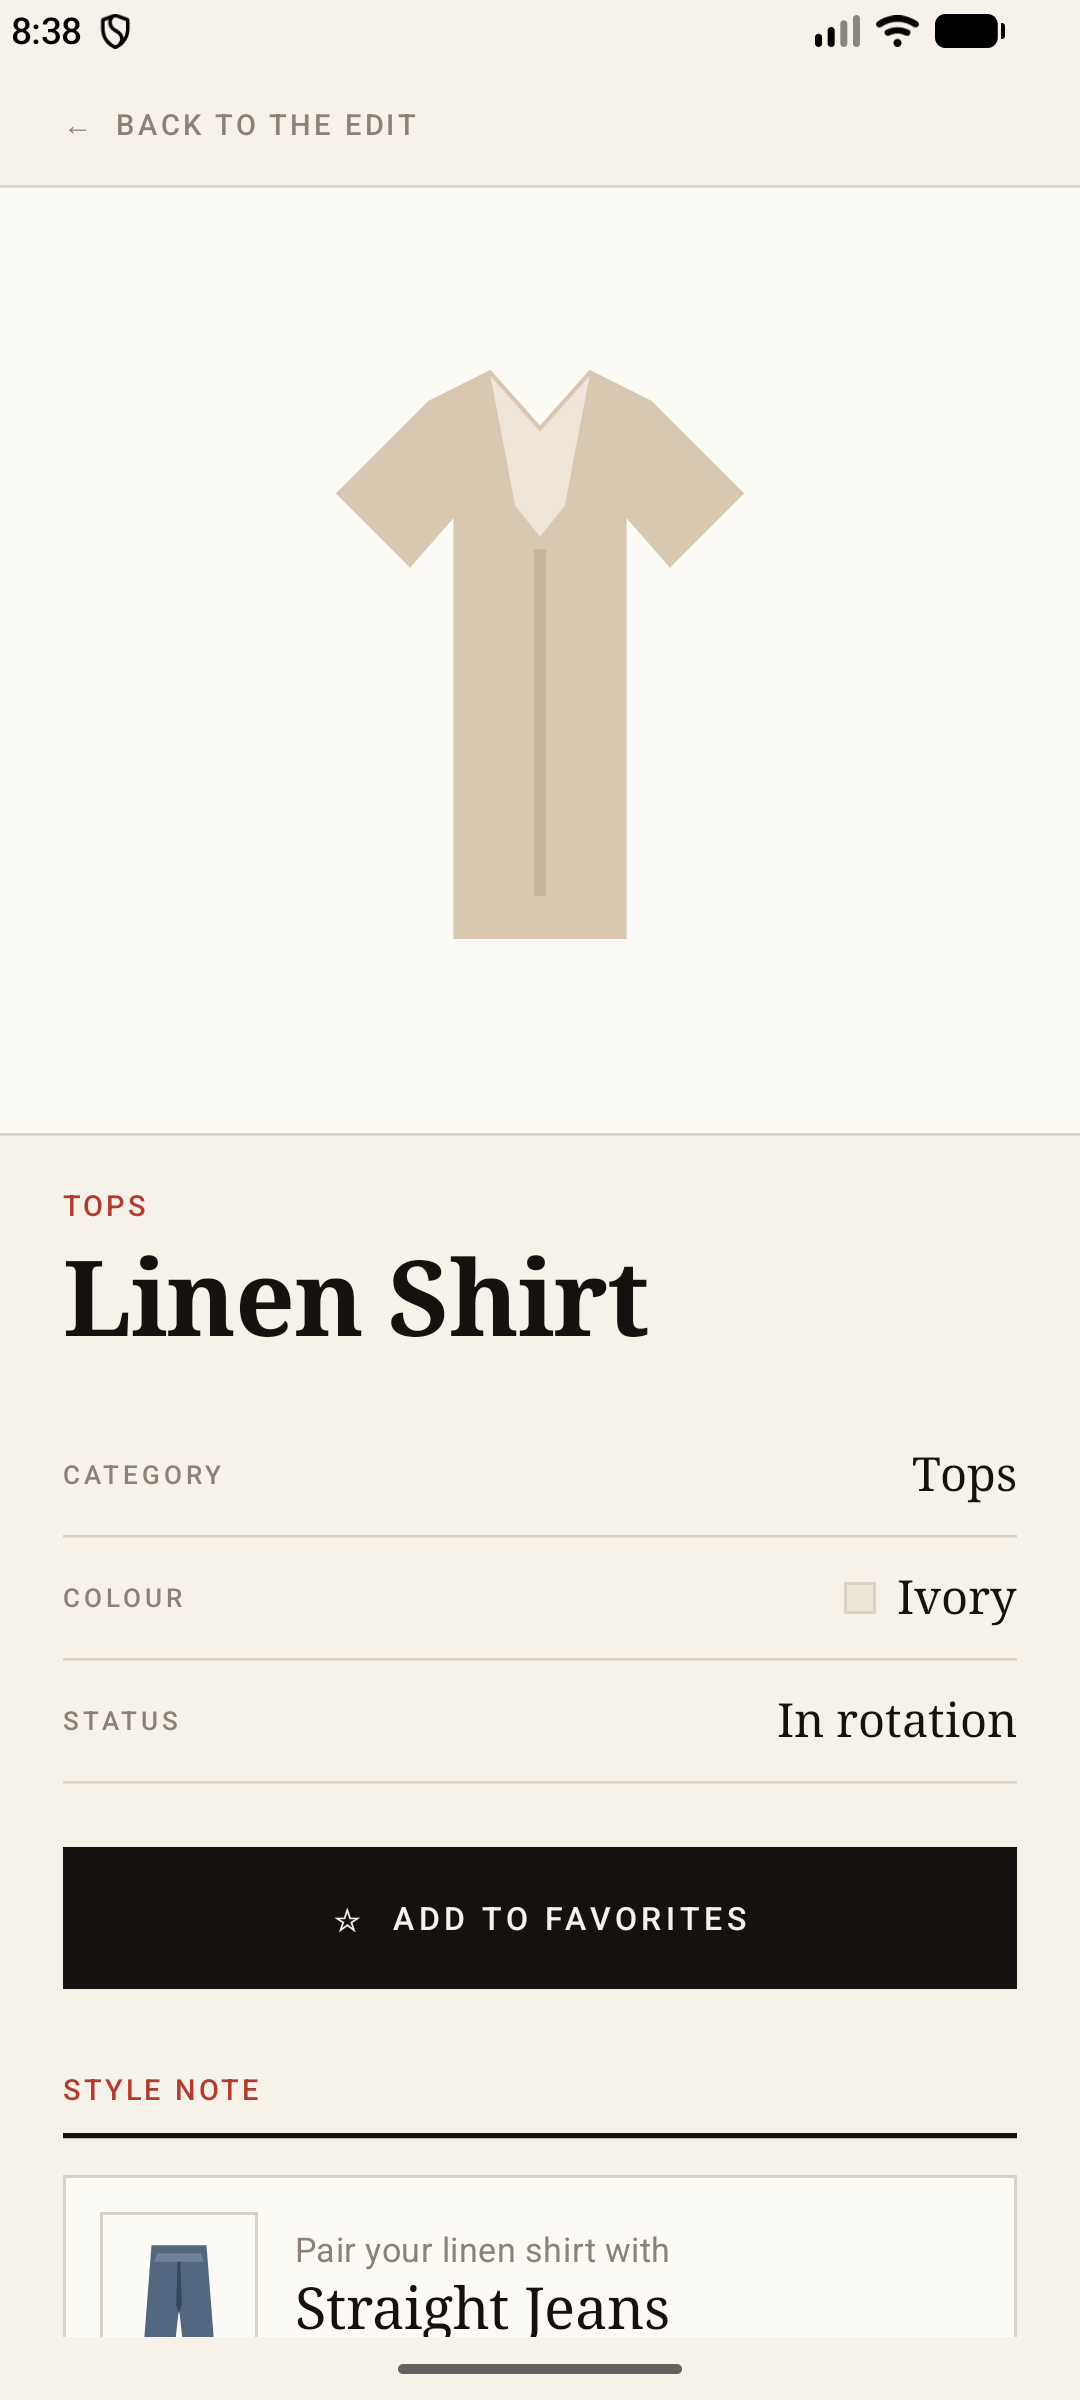
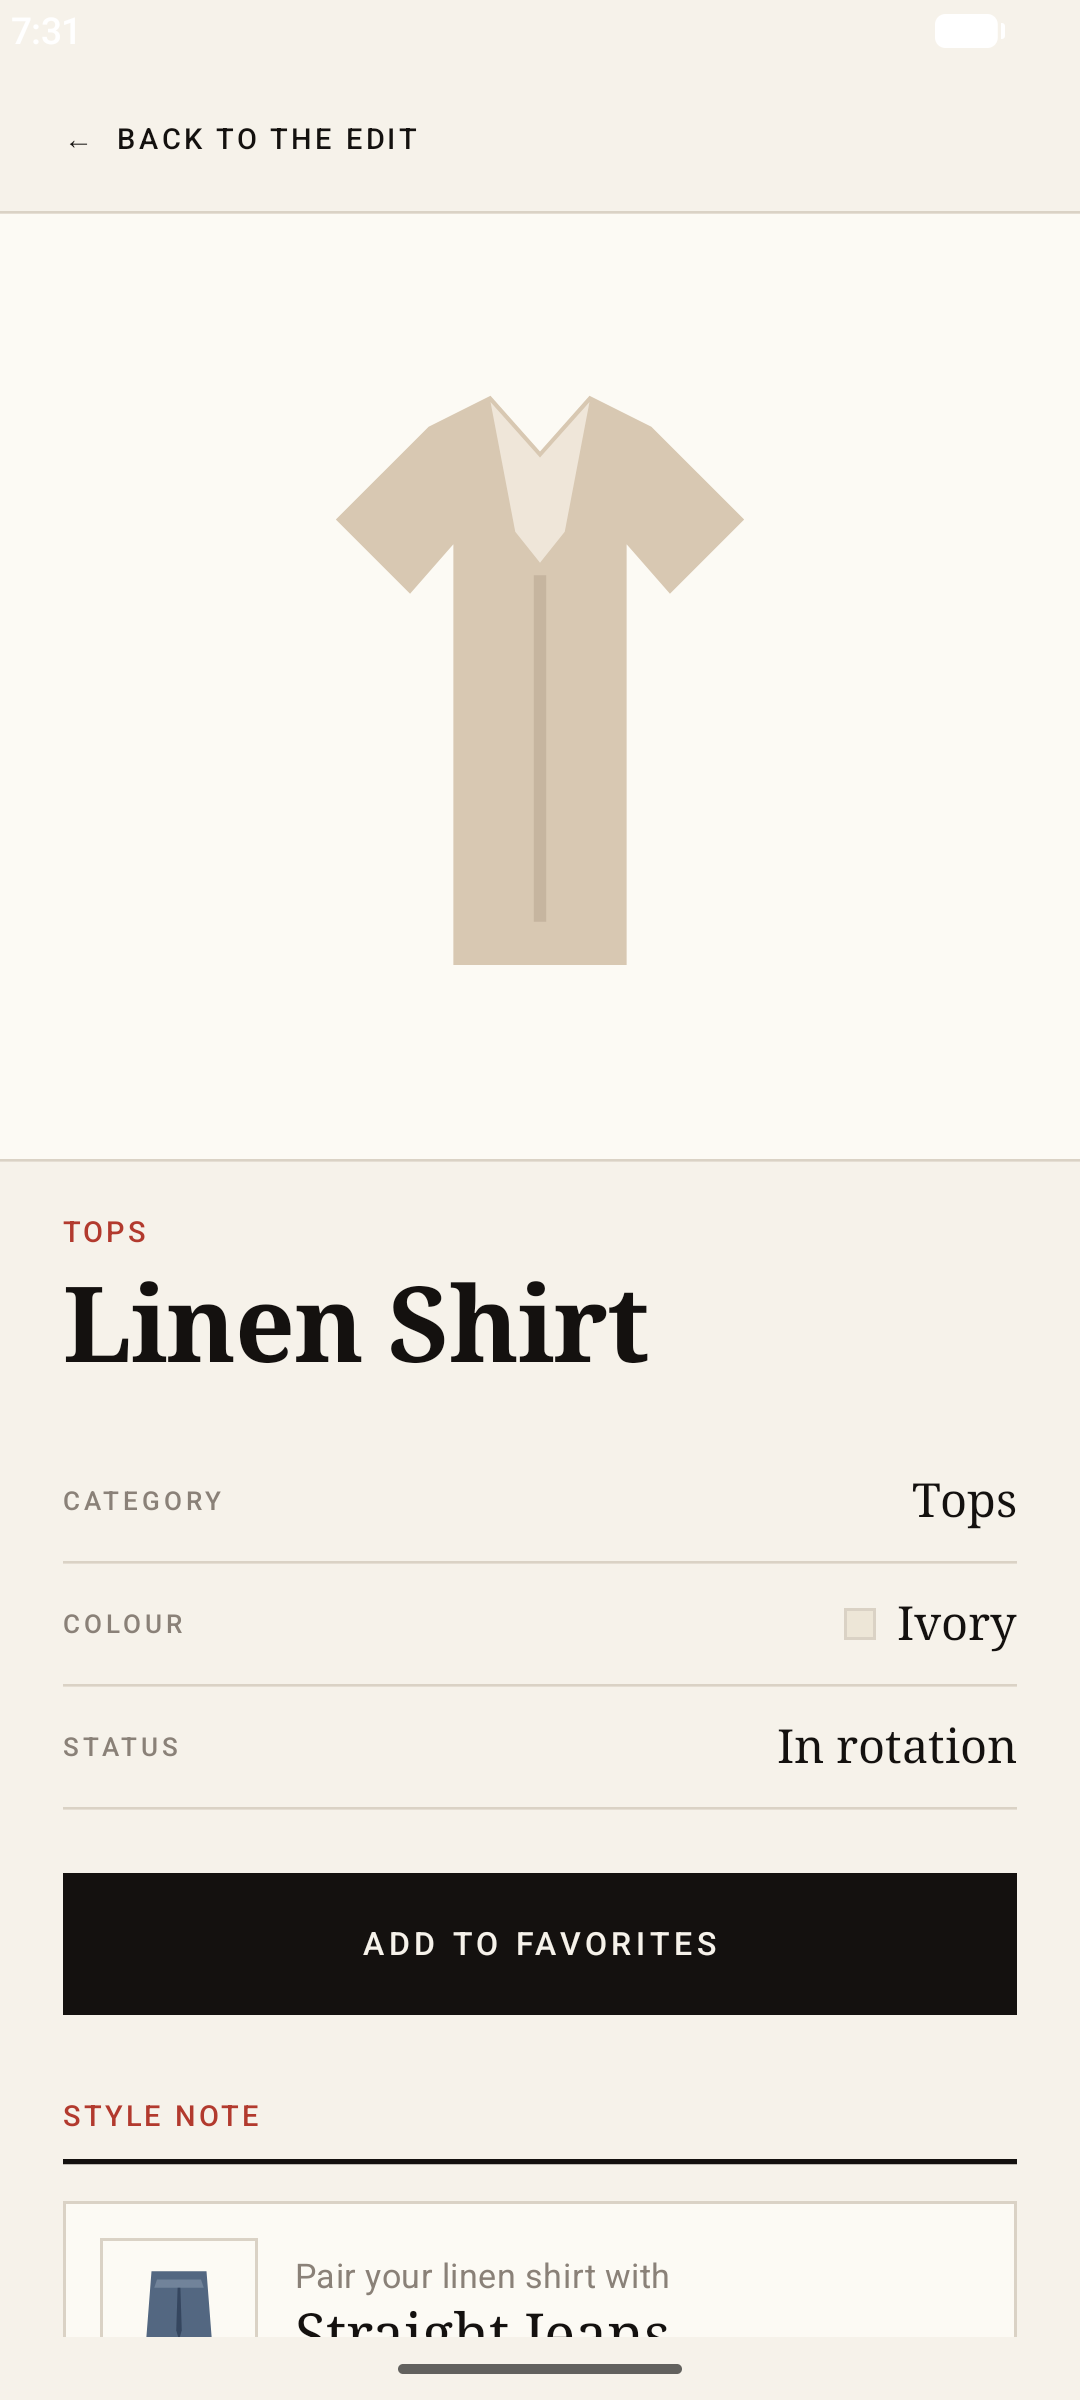
:hammer: some UI changes

diff --git a/README.md b/README.md
@@ -17,6 +17,7 @@ This is the HW2 (Task 2) foundation that will later grow into the StyleBook midt
 - **Wardrobe screen** — an editorial masthead header plus a `LazyColumn` list of clothing pieces, each showing a number, illustration, name, category, color swatch, and a favorite star.
 - **Item details screen** — a large illustration, a spec sheet (category / colour / status), a favorite toggle, and a **Style Note** card that suggests an outfit pairing from another piece in the wardrobe.
 - **Add Piece screen** — a form (`TextField`s, category chips, `Button`) with required-field validation and success/error feedback. New pieces appear in the wardrobe immediately.
+- **Search & filter** — a search `OutlinedTextField` (name / category / colour) and a *Show favorites only* `Checkbox` filter the wardrobe list live.
 - **Two bottom tabs** to move between the wardrobe and the add-piece form.
 - **Favorites** — tapping the star on any card or the button on the details screen instantly updates the UI.
 - **Bundled vector artwork** — all illustrations are local drawables, so the app needs **no network access**.
@@ -40,9 +41,9 @@ app/src/main/java/com/example/stylebook/
 │   └── SampleClothingData.kt        # Initial sample wardrobe
 └── ui/
     ├── StyleBookApp.kt              # App scaffold + simple tab/screen switching
-    ├── Modifiers.kt                 # Small reusable Modifier helper
+    ├── ColorSwatch.kt               # Shared colour-name → swatch mapping
     ├── screens/
-    │   ├── WardrobeScreen.kt        # Home list + reusable card/list/header/favorite composables
+    │   ├── WardrobeScreen.kt        # Home list + reusable header/search bar/list/card/favorite composables
     │   ├── AddItemScreen.kt         # Add-piece form with validation
     │   └── ItemDetailScreen.kt      # Details + outfit suggestion
     ├── viewmodel/WardrobeViewModel.kt   # State + business logic (StateFlow)
@@ -55,16 +56,16 @@ app/src/main/java/com/example/stylebook/
 |---|---|
 | Kotlin + Jetpack Compose | Whole project |
 | Material 3 + consistent styling | `ui/theme/`, all screens |
-| ≥ 3 reusable composables | `WardrobeHeader`, `ClothingItemList`, `ClothingItemCard`, `FavoriteButton`, plus form helpers |
+| ≥ 3 reusable composables | `WardrobeHeader`, `SearchAndFilterBar`, `ClothingItemList`, `ClothingItemCard`, `FavoriteButton`, plus form helpers |
 | `Row`, `Column`, `Box` | All screens |
 | `LazyColumn`, `Card`, `Text`, `Image` | `WardrobeScreen` (LazyColumn/Image/Text), `ItemDetailScreen` (OutlinedCard/Image/Text) |
-| ≥ 2 meaningful interactions | Add a piece, toggle favorite, open details, pick a category |
-| Input components | `OutlinedTextField`, `Button`, selectable category chips |
-| UI updates on action | Adding/favoriting updates the list instantly |
+| ≥ 2 meaningful interactions | Add a piece, search, filter favorites, toggle favorite, open details, pick a category |
+| Input components | `OutlinedTextField`, `Button`, `Checkbox`, selectable category chips |
+| UI updates on action | Adding, favoriting, searching and filtering update the list instantly |
 | `remember` + `rememberSaveable` | `rememberSaveable` for form fields / current tab / selected item; `remember` for the category list |
-| ≥ 1 `ViewModel` | `WardrobeViewModel` exposes `StateFlow<WardrobeUiState>` |
+| ≥ 1 `ViewModel` | `WardrobeViewModel` exposes `StateFlow<WardrobeUiState>` (items, search query, favorites filter, filtering & pairing logic) |
 | UI / state separation | Composables are stateless and driven by the ViewModel via callbacks |
-| Survives Activity recreation | ViewModel keeps the wardrobe across rotation; `rememberSaveable` restores UI state |
+| Survives Activity recreation | ViewModel keeps the wardrobe and filters across rotation; `rememberSaveable` restores UI state |
 
 ## Running the app
 
@@ -88,7 +89,7 @@ The built APK is at `app/build/outputs/apk/debug/app-debug.apk`.
 - **`ViewModel`** holds screen/app state and business logic that survives configuration changes, and keeps UI logic out of composables. Used here for the in-memory wardrobe collection and the add/favorite actions, exposed as a `StateFlow`.
 
 ### What happens during rotation
-The `WardrobeViewModel` instance is retained, so the wardrobe collection and favorites stay intact. `rememberSaveable` restores the open screen, selected item, and any text already typed in the form.
+The `WardrobeViewModel` instance is retained, so the wardrobe collection, favorites, search query and favorites filter stay intact. `rememberSaveable` restores the open screen, selected item, and any text already typed in the form.
 
 ### What happens if the process is terminated
 A `ViewModel` is **not** persistent storage. If Android kills the app process, the in-memory wardrobe resets to the sample data. `rememberSaveable` can restore supported UI state if the OS saved it, but it is not a database — durable persistence (e.g. Room/DataStore) is intentionally out of scope for this assignment.
